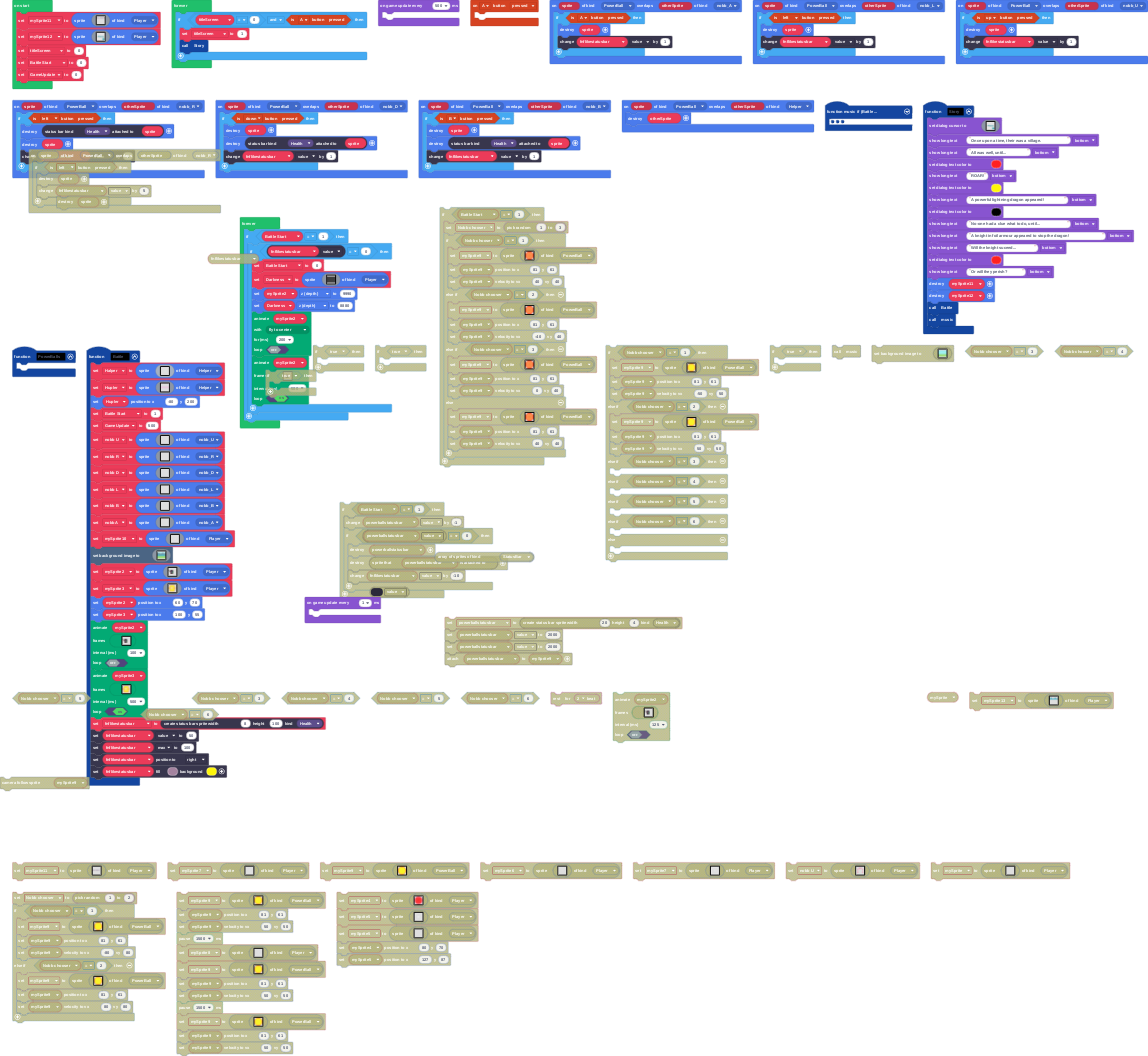
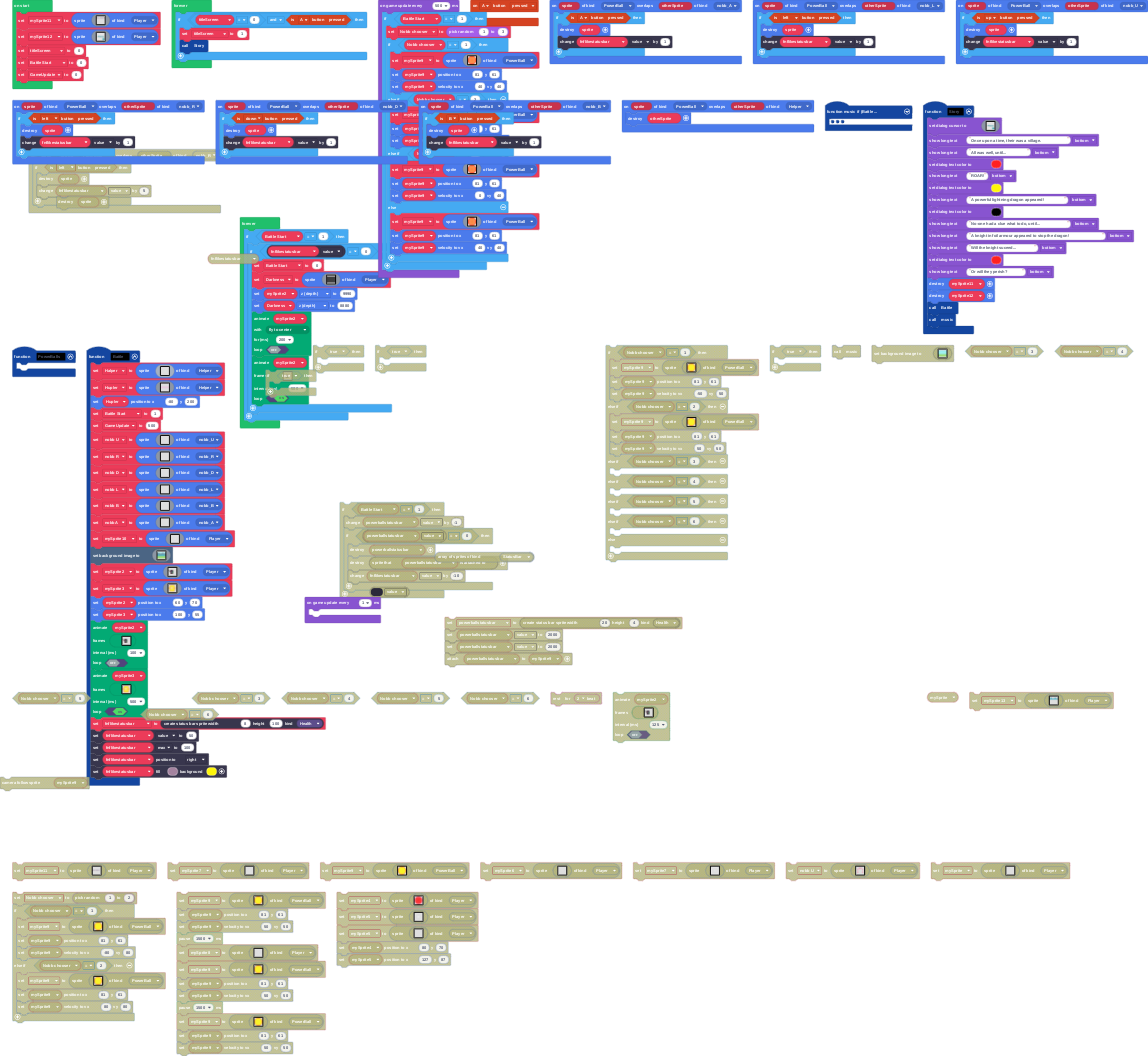
Almost done.

Changed region(s): [[0.0, 0.0, 0.5488, 0.4688]]

diff --git a/main.ts b/main.ts
@@ -28,7 +28,6 @@ sprites.onOverlap(SpriteKind.PowerBall, SpriteKind.nobb_U, function (sprite, oth
 })
 sprites.onOverlap(SpriteKind.PowerBall, SpriteKind.nobb_R, function (sprite, otherSprite) {
     if (controller.left.isPressed()) {
-        statusbars.getStatusBarAttachedTo(StatusBarKind.Health, sprite).destroy()
         sprite.destroy()
         fnflikestatusbar.value += 1
     }
@@ -165,14 +164,12 @@ function music2 () {
 sprites.onOverlap(SpriteKind.PowerBall, SpriteKind.nobb_D, function (sprite, otherSprite) {
     if (controller.down.isPressed()) {
         sprite.destroy()
-        statusbars.getStatusBarAttachedTo(StatusBarKind.Health, sprite).destroy()
         fnflikestatusbar.value += 1
     }
 })
 sprites.onOverlap(SpriteKind.PowerBall, SpriteKind.nobb_B, function (sprite, otherSprite) {
     if (controller.B.isPressed()) {
         sprite.destroy()
-        statusbars.getStatusBarAttachedTo(StatusBarKind.Health, sprite).destroy()
         fnflikestatusbar.value += 1
     }
 })
@@ -1588,6 +1585,8 @@ function Battle () {
     fnflikestatusbar.positionDirection(CollisionDirection.Right)
     fnflikestatusbar.setColor(11, 5)
 }
+let mySprite9: Sprite = null
+let Nobb_chooser = 0
 let Darkness: Sprite = null
 let mySprite3: Sprite = null
 let mySprite2: Sprite = null
@@ -1934,5 +1933,96 @@ forever(function () {
     }
 })
 game.onUpdateInterval(500, function () {
-	
+    if (Battle_Start == 1) {
+        Nobb_chooser = randint(1, 3)
+        if (Nobb_chooser == 1) {
+            mySprite9 = sprites.create(img`
+                . . . . 2 2 2 2 2 2 2 2 2 . . . . 
+                . . . 2 4 4 4 4 4 4 4 4 4 2 . . . 
+                . . 2 4 4 4 4 4 4 4 4 4 4 4 2 . . 
+                . 2 4 4 4 4 4 4 4 4 4 4 4 4 4 2 . 
+                2 4 4 4 4 4 4 4 4 4 4 4 4 4 4 4 2 
+                2 4 4 4 4 4 4 4 4 4 4 4 4 4 4 4 2 
+                2 4 4 4 4 4 4 4 4 4 4 4 4 4 4 4 2 
+                2 4 4 4 4 4 4 4 4 4 4 4 4 4 4 4 2 
+                2 4 4 4 4 4 4 4 4 4 4 4 4 4 4 4 2 
+                2 4 4 4 4 4 4 4 4 4 4 4 4 4 4 4 2 
+                2 4 4 4 4 4 4 4 4 4 4 4 4 4 4 4 2 
+                2 4 4 4 4 4 4 4 4 4 4 4 4 4 4 4 2 
+                2 4 4 4 4 4 4 4 4 4 4 4 4 4 4 4 2 
+                . 2 4 4 4 4 4 4 4 4 4 4 4 4 4 2 . 
+                . . 2 4 4 4 4 4 4 4 4 4 4 4 2 . . 
+                . . . 2 4 4 4 4 4 4 4 4 4 2 . . . 
+                . . . . 2 2 2 2 2 2 2 2 2 . . . . 
+                `, SpriteKind.PowerBall)
+            mySprite9.setPosition(81, 61)
+            mySprite9.setVelocity(40, 40)
+        } else if (Nobb_chooser == 2) {
+            mySprite9 = sprites.create(img`
+                . . . . 2 2 2 2 2 2 2 2 2 . . . . 
+                . . . 2 4 4 4 4 4 4 4 4 4 2 . . . 
+                . . 2 4 4 4 4 4 4 4 4 4 4 4 2 . . 
+                . 2 4 4 4 4 4 4 4 4 4 4 4 4 4 2 . 
+                2 4 4 4 4 4 4 4 4 4 4 4 4 4 4 4 2 
+                2 4 4 4 4 4 4 4 4 4 4 4 4 4 4 4 2 
+                2 4 4 4 4 4 4 4 4 4 4 4 4 4 4 4 2 
+                2 4 4 4 4 4 4 4 4 4 4 4 4 4 4 4 2 
+                2 4 4 4 4 4 4 4 4 4 4 4 4 4 4 4 2 
+                2 4 4 4 4 4 4 4 4 4 4 4 4 4 4 4 2 
+                2 4 4 4 4 4 4 4 4 4 4 4 4 4 4 4 2 
+                2 4 4 4 4 4 4 4 4 4 4 4 4 4 4 4 2 
+                2 4 4 4 4 4 4 4 4 4 4 4 4 4 4 4 2 
+                . 2 4 4 4 4 4 4 4 4 4 4 4 4 4 2 . 
+                . . 2 4 4 4 4 4 4 4 4 4 4 4 2 . . 
+                . . . 2 4 4 4 4 4 4 4 4 4 2 . . . 
+                . . . . 2 2 2 2 2 2 2 2 2 . . . . 
+                `, SpriteKind.PowerBall)
+            mySprite9.setPosition(81, 61)
+            mySprite9.setVelocity(-40, 40)
+        } else if (Nobb_chooser == 3) {
+            mySprite9 = sprites.create(img`
+                . . . . 2 2 2 2 2 2 2 2 2 . . . . 
+                . . . 2 4 4 4 4 4 4 4 4 4 2 . . . 
+                . . 2 4 4 4 4 4 4 4 4 4 4 4 2 . . 
+                . 2 4 4 4 4 4 4 4 4 4 4 4 4 4 2 . 
+                2 4 4 4 4 4 4 4 4 4 4 4 4 4 4 4 2 
+                2 4 4 4 4 4 4 4 4 4 4 4 4 4 4 4 2 
+                2 4 4 4 4 4 4 4 4 4 4 4 4 4 4 4 2 
+                2 4 4 4 4 4 4 4 4 4 4 4 4 4 4 4 2 
+                2 4 4 4 4 4 4 4 4 4 4 4 4 4 4 4 2 
+                2 4 4 4 4 4 4 4 4 4 4 4 4 4 4 4 2 
+                2 4 4 4 4 4 4 4 4 4 4 4 4 4 4 4 2 
+                2 4 4 4 4 4 4 4 4 4 4 4 4 4 4 4 2 
+                2 4 4 4 4 4 4 4 4 4 4 4 4 4 4 4 2 
+                . 2 4 4 4 4 4 4 4 4 4 4 4 4 4 2 . 
+                . . 2 4 4 4 4 4 4 4 4 4 4 4 2 . . 
+                . . . 2 4 4 4 4 4 4 4 4 4 2 . . . 
+                . . . . 2 2 2 2 2 2 2 2 2 . . . . 
+                `, SpriteKind.PowerBall)
+            mySprite9.setPosition(81, 61)
+            mySprite9.setVelocity(0, 40)
+        } else {
+            mySprite9 = sprites.create(img`
+                . . . . 2 2 2 2 2 2 2 2 2 . . . . 
+                . . . 2 4 4 4 4 4 4 4 4 4 2 . . . 
+                . . 2 4 4 4 4 4 4 4 4 4 4 4 2 . . 
+                . 2 4 4 4 4 4 4 4 4 4 4 4 4 4 2 . 
+                2 4 4 4 4 4 4 4 4 4 4 4 4 4 4 4 2 
+                2 4 4 4 4 4 4 4 4 4 4 4 4 4 4 4 2 
+                2 4 4 4 4 4 4 4 4 4 4 4 4 4 4 4 2 
+                2 4 4 4 4 4 4 4 4 4 4 4 4 4 4 4 2 
+                2 4 4 4 4 4 4 4 4 4 4 4 4 4 4 4 2 
+                2 4 4 4 4 4 4 4 4 4 4 4 4 4 4 4 2 
+                2 4 4 4 4 4 4 4 4 4 4 4 4 4 4 4 2 
+                2 4 4 4 4 4 4 4 4 4 4 4 4 4 4 4 2 
+                2 4 4 4 4 4 4 4 4 4 4 4 4 4 4 4 2 
+                . 2 4 4 4 4 4 4 4 4 4 4 4 4 4 2 . 
+                . . 2 4 4 4 4 4 4 4 4 4 4 4 2 . . 
+                . . . 2 4 4 4 4 4 4 4 4 4 2 . . . 
+                . . . . 2 2 2 2 2 2 2 2 2 . . . . 
+                `, SpriteKind.PowerBall)
+            mySprite9.setPosition(81, 61)
+            mySprite9.setVelocity(40, 40)
+        }
+    }
 })
